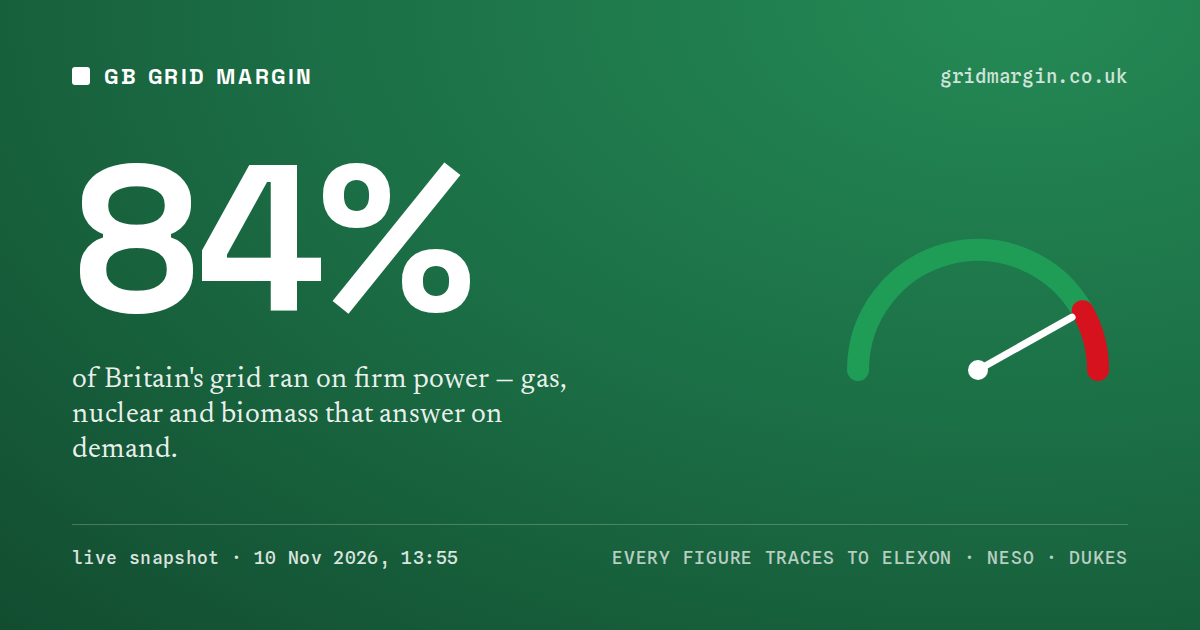
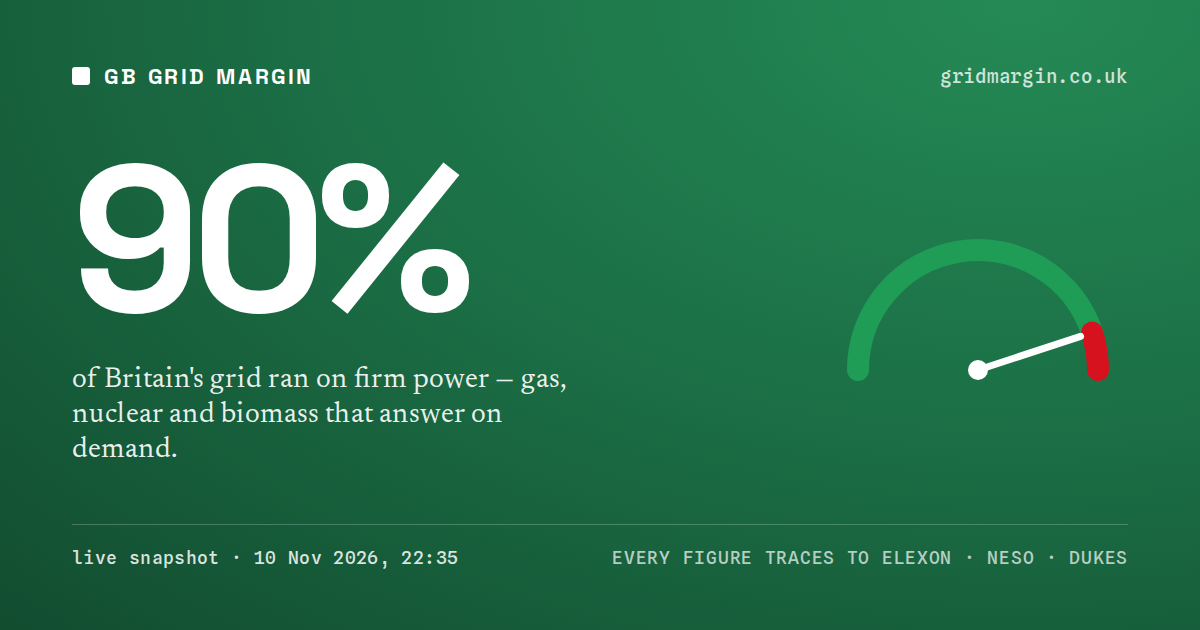
data: daily settled refresh [skip ci]

diff --git a/site/s/live-balance.html b/site/s/live-balance.html
@@ -1,19 +1,19 @@
 <!DOCTYPE html>
 <html lang="en-GB"><head><meta charset="utf-8"><meta name="robots" content="noindex">
-<title>84% — of Britain&#x27;s grid ran on firm power — gas, nuclear and biomass that answer on demand. — Grid Margin</title>
+<title>90% — of Britain&#x27;s grid ran on firm power — gas, nuclear and biomass that answer on demand. — Grid Margin</title>
 <meta name="description" content="As of 10 November 2026. Every figure traces to Elexon, NESO &amp; DUKES.">
-<meta property="og:title" content="84% — of Britain&#x27;s grid ran on firm power — gas, nuclear and biomass that answer on demand.">
+<meta property="og:title" content="90% — of Britain&#x27;s grid ran on firm power — gas, nuclear and biomass that answer on demand.">
 <meta property="og:description" content="As of 10 November 2026. Every figure traces to Elexon, NESO &amp; DUKES.">
 <meta property="og:type" content="website">
 <meta property="og:site_name" content="Grid Margin">
-<meta property="og:url" content="https://gridmargin.co.uk/s/live-balance?v=327592dfd0">
-<meta property="og:image" content="https://gridmargin.co.uk/share/live-balance.png?v=327592dfd0">
+<meta property="og:url" content="https://gridmargin.co.uk/s/live-balance?v=b5c377ff6f">
+<meta property="og:image" content="https://gridmargin.co.uk/share/live-balance.png?v=b5c377ff6f">
 <meta property="og:image:width" content="1200">
 <meta property="og:image:height" content="630">
 <meta name="twitter:card" content="summary_large_image">
 <link rel="canonical" href="https://gridmargin.co.uk/">
 <meta http-equiv="refresh" content="0;url=https://gridmargin.co.uk/">
 </head><body>
-<p>84% — of Britain&#x27;s grid ran on firm power — gas, nuclear and biomass that answer on demand. (as of 10 November 2026) — <a href="https://gridmargin.co.uk/">Grid Margin</a>.</p>
+<p>90% — of Britain&#x27;s grid ran on firm power — gas, nuclear and biomass that answer on demand. (as of 10 November 2026) — <a href="https://gridmargin.co.uk/">Grid Margin</a>.</p>
 <script>location.replace("https://gridmargin.co.uk/");</script>
 </body></html>

diff --git a/site/s/recent-lull.html b/site/s/recent-lull.html
@@ -6,8 +6,8 @@
 <meta property="og:description" content="As of 10 November 2026. Every figure traces to Elexon, NESO &amp; DUKES.">
 <meta property="og:type" content="website">
 <meta property="og:site_name" content="Grid Margin">
-<meta property="og:url" content="https://gridmargin.co.uk/s/recent-lull?v=41940ff21f">
-<meta property="og:image" content="https://gridmargin.co.uk/share/recent-lull.png?v=41940ff21f">
+<meta property="og:url" content="https://gridmargin.co.uk/s/recent-lull?v=3b13d6da58">
+<meta property="og:image" content="https://gridmargin.co.uk/share/recent-lull.png?v=3b13d6da58">
 <meta property="og:image:width" content="1200">
 <meta property="og:image:height" content="630">
 <meta name="twitter:card" content="summary_large_image">
